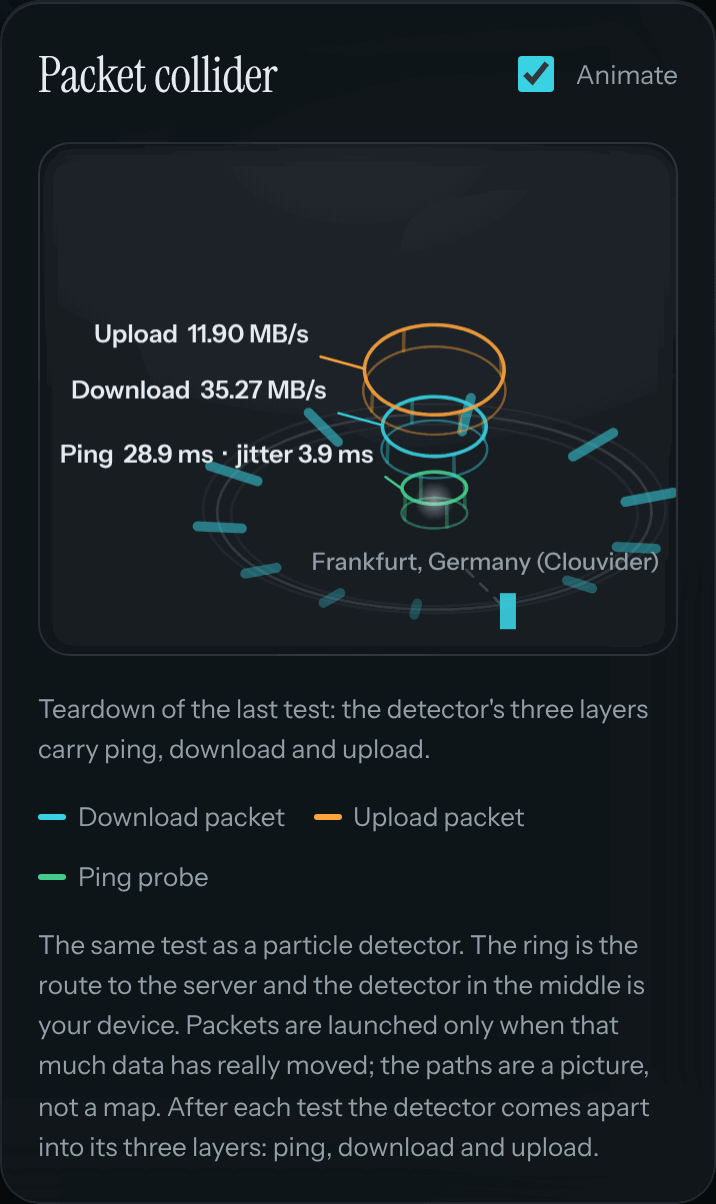
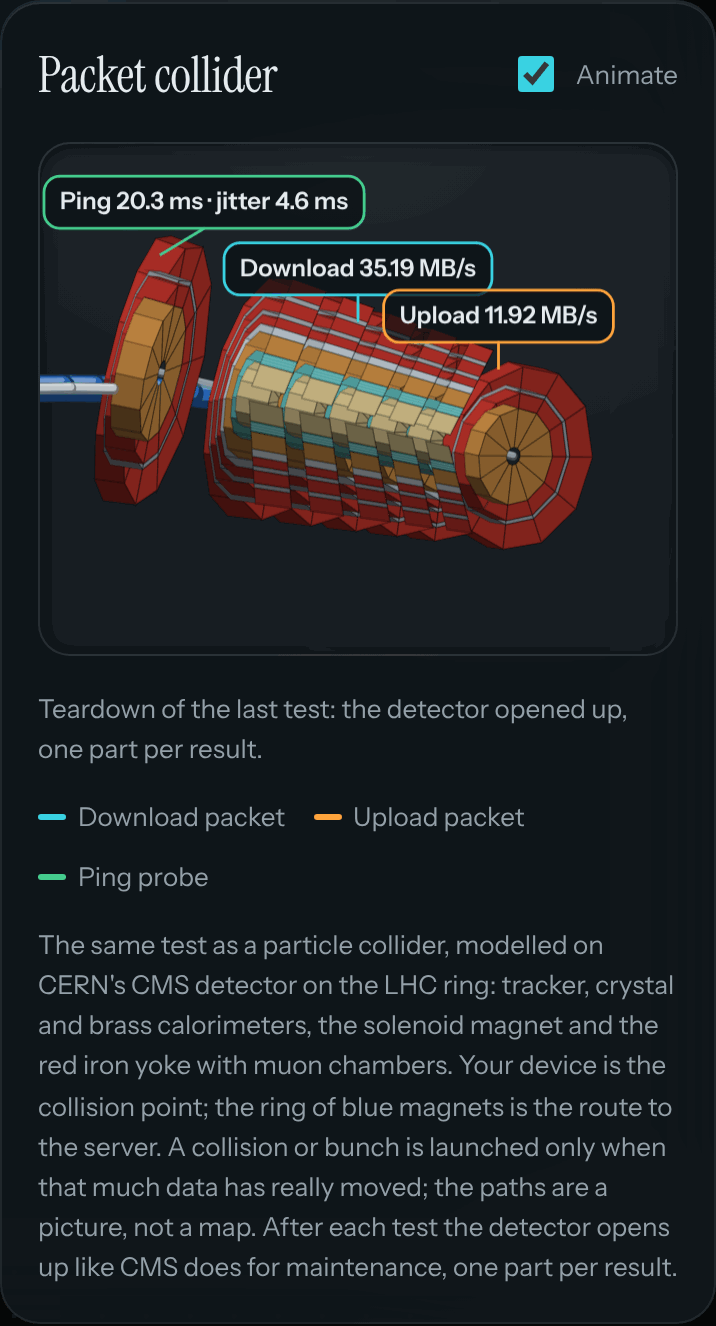
Collider rebuilt on the real CMS/LHC structure
- 12-sided barrel (5 wheels) + endcaps: silicon tracker, crystal ECAL,
  brass HCAL, superconducting solenoid, red iron yoke with muon chambers;
  camera-facing wedge cut away like an event display
- Blue dipole ring with the beam pipe following it
- Download: bunches from both sides collide per chunk received; tracks
  curl in the field and light the calorimeters where they stop
- Teardown opens the detector like CMS maintenance: endcaps slide out,
  wheels part; ping/download/upload labelled on the parts
- Static model drawn once and cached; only particles move (30 fps cap)
- README, DESIGN.md and screenshots updated

Claude-Session: https://claude.ai/code/session_01WewRtG4UNMSrnVFMQRkw9g

diff --git a/index.html b/index.html
@@ -417,7 +417,7 @@ footer{font:13px var(--body);color:var(--muted);text-align:center;padding-top:8p
     <div class="mapwrap colwrap"><canvas id="collider" role="img" aria-label="Packet collider"></canvas></div>
     <p class="note" id="colKey"></p>
     <div class="legend"><span><i style="background:var(--down)"></i>Download packet</span><span><i style="background:var(--up)"></i>Upload packet</span><span><i style="background:var(--good)"></i>Ping probe</span></div>
-    <p class="note">The same test as a particle detector. The ring is the route to the server and the detector in the middle is your device. Packets are launched only when that much data has really moved; the paths are a picture, not a map. After each test the detector comes apart into its three layers: ping, download and upload.</p>
+    <p class="note">The same test as a particle collider, modelled on CERN's CMS detector on the LHC ring: tracker, crystal and brass calorimeters, the solenoid magnet and the red iron yoke with muon chambers. Your device is the collision point; the ring of blue magnets is the route to the server. A collision or bunch is launched only when that much data has really moved; the paths are a picture, not a map. After each test the detector opens up like CMS does for maintenance, one part per result.</p>
   </section>
 
   <section class="glass pad" id="livePanel" aria-label="Live network map">
@@ -2026,127 +2026,178 @@ $("cmpType").value=connLabel()==="Mobile data"?"mobile":"fixed"; syncNet();
 if(!byId(selected)&&selected!=="auto") selected="auto";
 initCompare(); fillWhich(); renderServers(); syncServerName();
 { const h=store.get("history",[]); if(h[0]){ last=h[0]; showResult(last); $("copyRes").disabled=false } }
-/* =================== Packet collider: a 3D view of the test, driven by the real byte counters ===================
-   A beam ring (the route to the server) feeds a detector at the centre (your device).
-   Download: cyan packets enter at the server port, ride the ring once, dive into the detector and shower.
-   Upload: amber packets leave the detector, ride the ring once and exit at the port.
-   Ping: green probes go detector → port → detector over their measured round trip (slowed so they're visible).
-   A packet is launched only when that much data has really arrived or left; ring speed follows the live rate.
-   After the test the detector comes apart into three labelled layers (ping, download, upload): the teardown. */
+/* =================== Packet collider: a CMS-style detector on an LHC-style ring, driven by the real byte counters ===================
+   Modelled on the real thing: a 12-sided barrel detector around the beam pipe — silicon tracker, crystal electromagnetic
+   calorimeter, brass hadron calorimeter, superconducting solenoid and a red iron return yoke with muon chambers — sitting on
+   a ring of blue dipole magnets.
+   Download: two cyan bunches race in along the beam pipe from both sides and collide in the centre; the collision showers
+   tracks that curl in the magnetic field and light up the calorimeters. One collision is launched only when that much data
+   has really arrived. Upload: amber bunches leave the centre in both directions for each chunk really sent.
+   Ping: green probes run out along the pipe and back over each measured round trip (slowed 20×).
+   Teardown: when the test ends the detector opens like CMS does for maintenance — endcaps slide out, barrel wheels part —
+   and each part carries a result (ping, download, upload). */
 const col=(()=>{
-  const cv=$("collider"), cx=cv.getContext("2d"), SLOWC=20, MAXP=180, MAXT=260;
+  const cv=$("collider"); let cx=cv.getContext("2d"); const  SLOWC=20, MAXP=120, MAXT=320, RING=4.2;
   const reduce=matchMedia("(prefers-reduced-motion: reduce)");
-  let W=0,H=0,dpr=1, yaw=-0.55, parts=[], tracks=[], flashes=[], seen={dir:"",b:0,acc:0,t:0}, per=0, raf=0, last=0, vis=false;
+  let W=0,H=0,dpr=1, yaw=0.98, sway=0, stat=document.createElement("canvas"), statKey="", parts=[], tracks=[], hits=[], flashes=[], seen={dir:"",b:0,acc:0}, per=0, raf=0, last=0, lastDraw=0, vis=false;
   let explode=0, explodeT0=0, result=null, frameCost=0;
   const tok=n=>css(n), dark=()=>getComputedStyle(document.documentElement).colorScheme.includes("dark");
-  let lastDraw=0;
-  function size(){ dpr=Math.min(2,devicePixelRatio||1); const r=cv.getBoundingClientRect(); W=Math.max(1,Math.round(r.width*dpr)); H=Math.max(1,Math.round(r.height*dpr));
-    if(cv.width!==W||cv.height!==H){ cv.width=W; cv.height=H } }
-  // camera: yaw around Y, fixed pitch, perspective
-  const PITCH=0.5, DIST=3.4;
-  function P(x,y,z){ const cy=Math.cos(yaw), sy=Math.sin(yaw), X=x*cy-z*sy, Z=x*sy+z*cy;
-    const cp=Math.cos(PITCH), sp=Math.sin(PITCH), Y2=y*cp-Z*sp, Z2=y*sp+Z*cp;
-    const e=ease(explode), nar=W/dpr<640, s=Math.min(W,H*1.6)*(0.42-(nar?0.1:0.07)*e)/(1+Z2/DIST); return [W/2+e*W*(nar?0.12:0.06)+X*s, H*(0.56+0.14*e)-Y2*s, Z2, s] }
-  const ringPt=(t,r=1,y=0)=>[Math.cos(t)*r,y,Math.sin(t)*r]; // t: angle; port at t=0
-  const lerp=(a,b,k)=>a+(b-a)*k, ease=k=>1-Math.pow(1-k,3);
-  // layer offsets for the exploded teardown
-  const lift=()=>{ const e=ease(explode); return {ring:-0.2*e, ping:0, down:0.36*e, up:0.72*e} };
-  const LAYERS=[["ping",0.16,"--good"],["down",0.27,"--down"],["up",0.38,"--up"]];
-  function ellipse(r,y,col,a,w,front){ cx.strokeStyle=col; cx.lineWidth=w*dpr; cx.beginPath();
-    for(let i=0;i<=72;i++){ const t=i/72*Math.PI*2, p=P(Math.cos(t)*r,y,Math.sin(t)*r); i?cx.lineTo(p[0],p[1]):cx.moveTo(p[0],p[1]) }
-    cx.globalAlpha=a; cx.stroke(); cx.globalAlpha=1 }
-  function glowDot(x,y,r,c,a=1){ const g=cx.createRadialGradient(x,y,0,x,y,r); g.addColorStop(0,c); g.addColorStop(1,c+"00"); cx.globalAlpha=a; cx.fillStyle=g; cx.beginPath(); cx.arc(x,y,r,0,Math.PI*2); cx.fill(); cx.globalAlpha=1 }
-  function drawScene(){
-    const L=lift(), line=tok("--line2"), muted=tok("--muted");
-    // beam ring: three concentric pipes
-    for(const [r,a] of [[0.94,.35],[1,.75],[1.06,.35]]) ellipse(r,L.ring,line,a,1.4);
-    // dipole magnets every 30°: short blocks across the beam pipe, brighter at the front
-    for(let i=1;i<12;i++){ const t=i/12*Math.PI*2, a=P(Math.cos(t)*0.9,L.ring,Math.sin(t)*0.9), b=P(Math.cos(t)*1.1,L.ring,Math.sin(t)*1.1);
-      cx.strokeStyle=tok("--accent"); cx.globalAlpha=Math.max(.15,Math.min(.55,.45-a[2]*.3)); cx.lineWidth=5*dpr; cx.beginPath(); cx.moveTo(a[0],a[1]); cx.lineTo(b[0],b[1]); cx.stroke(); cx.globalAlpha=1 }
-    // beamline from the port to the detector
-    const p0=P(1,L.ring,0), p1=P(0.42,L.ring,0); cx.strokeStyle=line; cx.lineWidth=1.4*dpr; cx.setLineDash([5*dpr,5*dpr]); cx.beginPath(); cx.moveTo(p0[0],p0[1]); cx.lineTo(p1[0],p1[1]); cx.stroke(); cx.setLineDash([]);
-    // server port
-    const pp=P(1.12,L.ring,0); cx.fillStyle=tok("--accent"); cx.globalAlpha=.9; cx.fillRect(pp[0]-4*dpr,pp[1]-9*dpr,8*dpr,18*dpr); cx.globalAlpha=1;
-    cx.fillStyle=muted; cx.font=`500 ${12*dpr}px ${tok("--body")}`; cx.textBaseline="middle";
-    const nm=tel.lastSrv?tel.lastSrv.name:"Server", nw=cx.measureText(nm).width, fits=pp[0]+12*dpr+nw<W-8*dpr;
-    cx.textAlign=fits?"left":"right"; let ly=fits?pp[1]:pp[1]+22*dpr; if(ly>H-12*dpr) ly=pp[1]-24*dpr; cx.fillText(nm,fits?pp[0]+12*dpr:Math.min(W-8*dpr,pp[0]+nw/2),ly);
-    // detector barrel: three layers (ping, download, upload), each a short cylinder
-    for(const [k,r,c] of LAYERS){ const y=L[k], h=0.07, col=tok(c);
-      ellipse(r,y-h,col,.45,1.2); ellipse(r,y+h,col,.9,1.8);
-      for(const t of [0,Math.PI/2,Math.PI,Math.PI*1.5]){ const a=P(Math.cos(t)*r,y-h,Math.sin(t)*r), b=P(Math.cos(t)*r,y+h,Math.sin(t)*r); cx.strokeStyle=col; cx.globalAlpha=.35; cx.beginPath(); cx.moveTo(a[0],a[1]); cx.lineTo(b[0],b[1]); cx.stroke(); cx.globalAlpha=1 } }
-    const c0=P(0,lift().ping,0); glowDot(c0[0],c0[1],10*dpr,tok("--ink"),.5);
+  const ease=k=>1-Math.pow(1-k,3), lerp=(a,b,k)=>a+(b-a)*k;
+  // real-detector materials (physical colours, the same in both themes)
+  const MAT={tracker:[196,178,128], ecal:[86,170,170], hcal:[184,128,62], sol:[178,188,196], yoke:[176,48,40], muon:[150,156,160], pipe:[200,206,210], dipole:[38,98,178]};
+  const BARREL=[["tracker",0.07,0.27],["ecal",0.27,0.37],["hcal",0.37,0.53],["sol",0.53,0.6],["yoke",0.6,0.68],["muon",0.68,0.72],["yoke",0.72,0.83],["muon",0.83,0.87],["yoke",0.87,1.0]];
+  const WHEELS=[-0.75,-0.45,-0.15,0.15,0.45,0.75], ENDCAP=[0.75,0.98];
+  function size(){ dpr=Math.min(2,devicePixelRatio||1); const r=cv.getBoundingClientRect(); W=Math.max(1,Math.round(r.width*dpr)); H=Math.max(1,Math.round(r.height*dpr)); if(cv.width!==W||cv.height!==H){ cv.width=W; cv.height=H } }
+  // camera
+  const PITCH=0.36, DIST=5.6;
+  function P(x,y,z){ const yy=yaw+sway, cy=Math.cos(yy), sy=Math.sin(yy), X=x*cy+z*sy, Z=-x*sy+z*cy;
+    const cp=Math.cos(PITCH), sp=Math.sin(PITCH), Y2=y*cp-Z*sp, Z2=y*sp+Z*cp;  // Z2: + is away from the camera
+    const e=ease(explode), nar=W/dpr<640, s=Math.min(W,H*1.7)*(nar?0.21:0.19)*(1-0.18*e)/(1+Z2/DIST);
+    return [W*0.5+X*s, H*(0.5+0.04*e)-Y2*s, Z2] }
+  const camDir=()=>{ const yy=yaw+sway; return [Math.sin(yy)*Math.cos(PITCH)*-1, Math.sin(PITCH), Math.cos(yy)*Math.cos(PITCH)] };
+  // teardown offsets along the beam axis
+  function zShift(z){ const e=ease(explode); if(!e) return 0; const s=Math.sign(z)||0;
+    if(Math.abs(z)>=ENDCAP[0]-1e-6) return s*1.05*e;        // endcaps slide out
+    return z*0.55*e }                                        // barrel wheels part
+  const ring=t=>[-RING+RING*Math.cos(t),0,RING*Math.sin(t)]; // tangent to the beam axis at the detector (t=0)
+  function shade(rgb,n,a=1){ const L=[-0.45,0.75,0.5], d=Math.max(0,(n[0]*L[0]+n[1]*L[1]+n[2]*L[2])/Math.hypot(...L)); const k=0.38+0.72*d;
+    return `rgba(${Math.min(255,rgb[0]*k)|0},${Math.min(255,rgb[1]*k)|0},${Math.min(255,rgb[2]*k)|0},${a})` }
+  // ---- geometry: quads with a world normal, painted far to near
+  function cutSectors(){ // the four sectors nearest the camera are cut away, so the collision point is visible
+    const N=12, rot=Math.PI/12, d=[]; for(let i=0;i<N;i++){ const m=rot+(i+.5)/N*Math.PI*2; d.push([P(Math.cos(m),Math.sin(m),0)[2],i]) }
+    d.sort((a,b)=>a[0]-b[0]); return new Set(d.slice(0,4).map(x=>x[1])) }
+  function prism(quads,mat,r0,r1,z0,z1,caps=[true,true],cut=null){
+    const N=12, rot=Math.PI/12;
+    const p=(r,t,z)=>[Math.cos(t)*r,Math.sin(t)*r,z];
+    if(cut) for(let i=0;i<N;i++){ const a=rot+i/N*Math.PI*2, b=rot+(i+1)/N*Math.PI*2;
+      if(cut.has(i)&&!cut.has((i+N-1)%N)) quads.push({pts:[p(r0,a,z0),p(r1,a,z0),p(r1,a,z1),p(r0,a,z1)],n:[Math.sin(a),-Math.cos(a),0],mat,cap:true,two:true});
+      if(cut.has(i)&&!cut.has((i+1)%N)) quads.push({pts:[p(r0,b,z1),p(r1,b,z1),p(r1,b,z0),p(r0,b,z0)],n:[-Math.sin(b),Math.cos(b),0],mat,cap:true,two:true}) }
+    for(let i=0;i<N;i++){ if(cut&&cut.has(i)) continue; const a=rot+i/N*Math.PI*2, b=rot+(i+1)/N*Math.PI*2, m=(a+b)/2;
+      quads.push({pts:[p(r1,a,z0),p(r1,b,z0),p(r1,b,z1),p(r1,a,z1)],n:[Math.cos(m),Math.sin(m),0],mat});              // outer face
+      if(caps[1]) quads.push({pts:[p(r0,a,z1),p(r1,a,z1),p(r1,b,z1),p(r0,b,z1)],n:[0,0,1],mat,cap:true});           // front cap
+      if(caps[0]) quads.push({pts:[p(r0,b,z0),p(r1,b,z0),p(r1,a,z0),p(r0,a,z0)],n:[0,0,-1],mat,cap:true});          // back cap
+    }
+  }
+  function detector(){
+    const q=[], cut=cutSectors();
+    for(let w=0;w<WHEELS.length-1;w++){ const z0=WHEELS[w], z1=WHEELS[w+1], dz=zShift((z0+z1)/2)+0;
+      for(const [m,r0,r1] of BARREL) prism(q,m,r0,r1,z0+dz,z1+dz,[true,true],cut) }
+    for(const s of [-1,1]){ const z0=s>0?ENDCAP[0]:-ENDCAP[1], z1=s>0?ENDCAP[1]:-ENDCAP[0], dz=zShift(s*0.9);
+      for(const [m,r0,r1] of [["hcal",0.1,0.53],["yoke",0.53,0.7],["muon",0.7,0.74],["yoke",0.74,1.0]]) prism(q,m,r0,r1,z0+dz,z1+dz) }
+    return q;
+  }
+  function paint(q){
+    const cam=camDir(), list=[];
+    for(const f of q){ const pr=f.pts.map(p=>P(...p)); let area=0; for(let i=0;i<4;i++){ const a=pr[i], b=pr[(i+1)%4]; area+=a[0]*b[1]-b[0]*a[1] }
+      if(area>=0&&!f.two) continue;                           // back face: hidden (cut walls are drawn from both sides)
+      list.push({pr,z:(pr[0][2]+pr[1][2]+pr[2][2]+pr[3][2])/4,f}) }
+    list.sort((a,b)=>b.z-a.z);
+    for(const {pr,f} of list){ const rgb=MAT[f.mat]; cx.fillStyle=shade(rgb,f.n); cx.beginPath(); pr.forEach((p,i)=>i?cx.lineTo(p[0],p[1]):cx.moveTo(p[0],p[1])); cx.closePath(); cx.fill();
+      cx.strokeStyle=`rgba(0,0,0,${f.cap?.28:.18})`; cx.lineWidth=0.7*dpr; cx.stroke();
+      if(f.mat==="ecal"&&f.cap){ cx.strokeStyle="rgba(255,255,255,.18)"; cx.lineWidth=0.5*dpr; for(let k=1;k<4;k++){ const a=[lerp(pr[0][0],pr[1][0],k/4),lerp(pr[0][1],pr[1][1],k/4)], b=[lerp(pr[3][0],pr[2][0],k/4),lerp(pr[3][1],pr[2][1],k/4)]; cx.beginPath(); cx.moveTo(...a); cx.lineTo(...b); cx.stroke() } } }
+  }
+  function cylinder(a,b,r,rgb,alpha=1){ // a short tube between two points (dipole magnets, beam pipe), drawn as a thick line with a highlight
+    const A=P(...a), B=P(...b), s=r*Math.min(W,H*1.7)*0.27/(1+(A[2]+B[2])/2/DIST);
+    cx.lineCap="round"; cx.strokeStyle=`rgba(${rgb[0]*.55|0},${rgb[1]*.55|0},${rgb[2]*.55|0},${alpha})`; cx.lineWidth=s*2; cx.beginPath(); cx.moveTo(A[0],A[1]); cx.lineTo(B[0],B[1]); cx.stroke();
+    cx.strokeStyle=`rgba(${rgb[0]},${rgb[1]},${rgb[2]},${alpha})`; cx.lineWidth=s*1.3; cx.beginPath(); cx.moveTo(A[0],A[1]-s*.25); cx.lineTo(B[0],B[1]-s*.25); cx.stroke();
+    cx.strokeStyle=`rgba(255,255,255,${.35*alpha})`; cx.lineWidth=s*.35; cx.beginPath(); cx.moveTo(A[0],A[1]-s*.6); cx.lineTo(B[0],B[1]-s*.6); cx.stroke() }
+  function drawRing(){ // the accelerator: blue dipole magnets along a ring that passes through the detector
+    const segs=[]; for(let i=-14;i<=14;i++){ if(Math.abs(i)<1) continue; const t0=i*0.06, t1=t0+0.045*Math.sign(i); segs.push([t0,t1]) }
+    segs.sort((a,b)=>P(...ring(b[0]))[2]-P(...ring(a[0]))[2]);
+    for(const [t0,t1] of segs){ const d=P(...ring(t0))[2]; if(d<-1.2&&Math.abs(t0)<0.1) continue;
+      const fade=Math.max(.25,Math.min(1,1-(d-1)/6)); cylinder(ring(t0),ring(t1),0.07,MAT.dipole,fade) }
+  }
+  function beamPipe(near){ // the beam pipe follows the ring; far end behind the detector, near end in front
+    const e=ease(explode), z0=0.98+1.05*e, t0=Math.asin(Math.min(1,z0/RING)), a=P(...ring(t0)), b=P(...ring(-t0)), farPos=a[2]>b[2];
+    const seg=sgn=>{ for(let i=0;i<10;i++){ const u0=t0+i*0.08, u1=u0+0.085; cylinder(ring(sgn*u0),ring(sgn*u1),0.03,MAT.pipe,.9) } };
+    if(near) seg(farPos?-1:1); else seg(farPos?1:-1);
+    if(!near&&e>0.05){ cx.globalAlpha=e; cylinder([0,0,-z0],[0,0,z0],0.025,MAT.pipe,.55); cx.globalAlpha=1 } }
+  function drawStatic(){
+    const key=[W,H,dark(),explode.toFixed(3)].join(); if(key===statKey) return; statKey=key;
+    stat.width=W; stat.height=H; const real=cx; cx=stat.getContext("2d"); cx.clearRect(0,0,W,H);
+    drawRing(); beamPipe(false); paint(detector()); beamPipe(true); cx=real }
+  // ---- packets and collisions
+  function rateSpeed(){ const r=tel.cur[tel.phase]||0; return 0.5+1.2*Math.min(1,Math.log10(1+bpsToMbps(r))/3) }
+  function where(p,now){ // returns a world point, or null
+    const tm=now-p.t0; if(tm<0) return null;
+    if(p.dir==="ping"){ const k=tm/p.dur; if(k>=1) return null; const u=k<.5?k*2:(1-k)*2; return ring(p.side*0.9*u) }
+    const d=p.dur; if(tm>=d) return null; const k=tm/d;
+    return p.dir==="down"? ring(p.side*0.9*(1-k)) : ring(p.side*0.9*k) }
+  function spawn(dir,n){ const now=performance.now();
+    for(let i=0;i<n&&parts.length<MAXP;i++){ const dur=1100/rateSpeed();
+      if(dir==="down"){ parts.push({dir,side:1,t0:now+i*140,dur,pair:true}); parts.push({dir,side:-1,t0:now+i*140,dur}) }
+      else parts.push({dir,side:(i%2?1:-1),t0:now+i*140,dur}) } }
+  function ping(ms){ if(!fin(ms)||parts.length>=MAXP) return; parts.push({dir:"ping",side:Math.random()<.5?1:-1,t0:performance.now(),dur:Math.min(3500,Math.max(700,ms*SLOWC)),ms}) }
+  function feed(){
+    const d=tel.phase; if(!tel.on||(d!=="down"&&d!=="up")){ seen.dir=""; return }
+    const b=tel.bytes[d]||0; if(seen.dir!==d){ seen={dir:d,b,acc:0}; return }
+    seen.acc+=Math.max(0,b-seen.b); seen.b=b; const rate=tel.cur[d]||0;
+    per=[64e3,256e3,1e6,4e6,16e6,64e6,256e6].find(v=>rate/v<=8)||256e6;
+    const n=Math.min(4,Math.floor(seen.acc/per)); seen.acc-=n*per; if(n) spawn(d,n) }
+  function collide(now){ // tracks curl in the solenoid field (perpendicular to the beam), stop in the calorimeters
+    const c=tok("--down"); for(let i=0;i<14&&tracks.length<MAXT;i++){ const a=Math.random()*Math.PI*2, charge=Math.random()<.5?-1:1;
+      const pt=0.6+Math.random()*2.4, reach=Math.random()<.7?0.36:0.52;  // electrons stop in ECAL, hadrons in HCAL
+      tracks.push({a,k:charge/pt*1.6,reach,c:Math.random()<.25?"#ffffff":c,t0:now,life:650+Math.random()*450,z:(Math.random()-.5)*0.05}) }
+    flashes.push({p:[0,0,0],t0:now,c:"#ffffff",r:10}) }
+  function drawTracks(now){
+    tracks=tracks.filter(t=>{ const k=(now-t.t0)/t.life; if(k>=1) return false; const grow=Math.min(1,k*2.2), steps=14;
+      cx.strokeStyle=t.c; cx.globalAlpha=(1-k)*.95; cx.lineWidth=1.4*dpr; cx.beginPath();
+      let x=0,y=0,a=t.a, first=true; const ds=t.reach*grow/steps;
+      for(let i=0;i<=steps;i++){ const q=P(x,y,t.z); first?cx.moveTo(q[0],q[1]):cx.lineTo(q[0],q[1]); first=false; a+=t.k*ds*3; x+=Math.cos(a)*ds; y+=Math.sin(a)*ds }
+      cx.stroke(); cx.globalAlpha=1;
+      if(grow>=1&&!t.hit){ t.hit=true; hits.push({p:[x,y,t.z],t0:now,c:t.reach<0.4?"#7fe9f2":"#ffb560"}) }
+      return true });
+    hits=hits.filter(h=>{ const k=(now-h.t0)/500; if(k>=1) return false; const q=P(...h.p); glow(q[0],q[1],(5+k*6)*dpr,h.c,(1-k)*(dark()?.9:.6)); return true });
+  }
+  function glow(x,y,r,c,a){ const g=cx.createRadialGradient(x,y,0,x,y,r); const hex=c.length===7?c:"#ffffff"; g.addColorStop(0,hex); g.addColorStop(1,hex+"00"); cx.globalAlpha=a; cx.fillStyle=g; cx.beginPath(); cx.arc(x,y,r,0,Math.PI*2); cx.fill(); cx.globalAlpha=1 }
+  function drawParts(now){
+    parts=parts.filter(p=>{
+      const done=(now-p.t0)>=p.dur;
+      if(done){ if(p.dir==="ping"){ flashes.push({p:[0,0,0],t0:now,c:tok("--good"),txt:p.ms.toFixed(0)+" ms",r:14}) }
+        else if(p.dir==="down"&&p.pair) collide(now); else if(p.dir==="up") flashes.push({p:ring(p.side*0.9),t0:now,c:tok("--up"),r:12}); return false }
+      const w=where(p,now); if(!w) return true;
+      const c=tok(p.dir==="ping"?"--good":p.dir==="down"?"--down":"--up"), q=P(...w);
+      let prev=q; for(let i=1;i<=8;i++){ const tw=where(p,now-i*18); if(!tw) break; const r=P(...tw);
+        cx.strokeStyle=c; cx.globalAlpha=(1-i/9)*.85; cx.lineWidth=(3.4-i*.35)*dpr; cx.lineCap="round"; cx.beginPath(); cx.moveTo(prev[0],prev[1]); cx.lineTo(r[0],r[1]); cx.stroke(); prev=r }
+      cx.globalAlpha=1; glow(q[0],q[1],(dark()?13:9)*dpr,c,dark()?.95:.6); cx.fillStyle="#fff"; cx.beginPath(); cx.arc(q[0],q[1],2.2*dpr,0,Math.PI*2); cx.fill();
+      return true });
+    flashes=flashes.filter(f=>{ const k=(now-f.t0)/650; if(k>=1) return false; const q=P(...f.p); glow(q[0],q[1],(f.r+k*12)*dpr,f.c,(1-k)*(dark()?1:.6));
+      if(f.txt){ cx.fillStyle=f.c; cx.globalAlpha=1-k; cx.font=`600 ${12*dpr}px ${tok("--mono")}`; cx.textAlign="center"; cx.fillText(f.txt,q[0],q[1]-(22+k*16)*dpr); cx.globalAlpha=1 } return true });
   }
   function labels(){
-    if(explode<=0.02||!result) return; const L=lift(), e=ease(explode);
-    const rows=[["up",0.38,`Upload  ${fmt(result.up)} ${unitLabel()}`,"--up"],["down",0.27,`Download  ${fmt(result.down)} ${unitLabel()}`,"--down"],["ping",0.16,`Ping  ${fin(result.ping)?result.ping.toFixed(1):"—"} ms${fin(result.jitter)?`  ·  jitter ${result.jitter.toFixed(1)} ms`:""}`,"--good"]];
-    cx.font=`600 ${(W/dpr<640?12.5:14)*dpr}px ${tok("--body")}`; cx.textBaseline="middle"; cx.textAlign="left";
-    for(const [k,r,txt,c] of rows){
-      // anchor on the left-most point of the layer's top rim, label sits to its left with a short leader
-      let a=null; for(let i=0;i<48;i++){ const t=i/48*Math.PI*2, q=P(Math.cos(t)*r,L[k]+0.07,Math.sin(t)*r); if(!a||q[0]<a[0]) a=q }
-      const tw=cx.measureText(txt).width, tx=Math.max(10*dpr, a[0]-tw-28*dpr), ty=a[1]-6*dpr;
-      cx.globalAlpha=e; cx.strokeStyle=tok(c); cx.lineWidth=1.2*dpr; cx.beginPath(); cx.moveTo(a[0],a[1]); cx.lineTo(Math.min(a[0]-6*dpr,tx+tw+6*dpr),ty); cx.stroke();
-      cx.fillStyle=tok("--ink"); cx.fillText(txt,tx,ty-11*dpr); cx.globalAlpha=1 }
+    if(explode<=0.02||!result) return; const e=ease(explode);
+    const rows=[[-0.87,`Ping ${fin(result.ping)?result.ping.toFixed(1):"—"} ms${fin(result.jitter)?` · jitter ${result.jitter.toFixed(1)} ms`:""}`,"--good"],
+                [0,`Download ${fmt(result.down)} ${unitLabel()}`,"--down"],[0.87,`Upload ${fin(result.up)?fmt(result.up):"—"} ${unitLabel()}`,"--up"]];
+    cx.font=`600 ${(W/dpr<640?12:14)*dpr}px ${tok("--body")}`; cx.textBaseline="middle"; cx.textAlign="center";
+    for(const [z,txt,c] of rows){ const top=P(0,1.02,z+zShift(z)), tw=cx.measureText(txt).width;
+      const x=Math.min(W-tw/2-10*dpr,Math.max(tw/2+10*dpr,top[0])), y=Math.max(18*dpr,top[1]-26*dpr);
+      cx.globalAlpha=e; cx.fillStyle=dark()?"rgba(10,14,16,.72)":"rgba(255,255,255,.82)"; cx.beginPath(); cx.roundRect?cx.roundRect(x-tw/2-8*dpr,y-13*dpr,tw+16*dpr,26*dpr,8*dpr):cx.rect(x-tw/2-8*dpr,y-13*dpr,tw+16*dpr,26*dpr); cx.fill();
+      cx.strokeStyle=tok(c); cx.lineWidth=1.4*dpr; cx.stroke(); cx.beginPath(); cx.moveTo(x,y+13*dpr); cx.lineTo(top[0],top[1]); cx.stroke();
+      cx.fillStyle=tok("--ink"); cx.fillText(txt,x,y); cx.globalAlpha=1 }
   }
-  // ---- packets
-  function rateSpeed(){ const r=tel.cur[tel.phase]||0; return 0.3+0.9*Math.min(1,Math.log10(1+bpsToMbps(r))/3) } // laps per second: 0.3 (slow line) to 1.2 (gigabit)
-  function spawn(dir,n){ for(let i=0;i<n&&parts.length<MAXP;i++) parts.push({dir,t0:performance.now()+i*110,lap:1/rateSpeed(),j:(Math.random()-.5)*0.05}) }
-  function ping(ms){ if(!fin(ms)||parts.length>=MAXP) return; parts.push({dir:"ping",t0:performance.now(),dur:Math.min(3500,Math.max(700,ms*SLOWC)),ms}) }
-  function feed(now){
-    const d=tel.phase; if(!tel.on||(d!=="down"&&d!=="up")){ seen.dir=""; return }
-    const b=tel.bytes[d]||0; if(seen.dir!==d){ seen={dir:d,b,acc:0,t:now}; return }
-    seen.acc+=Math.max(0,b-seen.b); seen.b=b; const rate=tel.cur[d]||0;
-    per=[64e3,256e3,1e6,4e6,16e6,64e6,256e6].find(v=>rate/v<=24)||256e6;
-    const n=Math.min(8,Math.floor(seen.acc/per)); seen.acc-=n*per; if(n) spawn(d,n);
-  }
-  function shower(x,y,c,n){ for(let i=0;i<n&&tracks.length<MAXT;i++){ const a=Math.random()*Math.PI*2, v=(50+Math.random()*110)*dpr, curl=(Math.random()<.5?-1:1)*(1.5+Math.random()*3);
-      tracks.push({x,y,a,v,curl,c,t0:performance.now(),life:500+Math.random()*500}) } }
-  function where(p,now,L){
-    if(p.dir==="ping"){ const k=(now-p.t0)/p.dur; if(k<0||k>=1) return null; const u=k<.5?k*2:(1-k)*2; return [lerp(0.1,1,u),L.ping+0.02,0] }
-    const lapDur=p.lap*1000, inDur=420, tm=now-p.t0; if(tm<0||tm>=lapDur+inDur) return null;
-    if(p.dir==="down"){ if(tm<lapDur){ const a=(tm/lapDur)*Math.PI*2; return ringPt(a,1+p.j,L.ring) } const u=(tm-lapDur)/inDur; return [lerp(1,0.05,u),lerp(L.ring,L.down,u),0] }
-    if(tm<inDur){ const u=tm/inDur; return [lerp(0.05,1,u),lerp(L.up,L.ring,u),0] } const a=((tm-inDur)/lapDur)*Math.PI*2; return ringPt(-a,1+p.j,L.ring) }
-  function drawParts(now){
-    const L=lift();
-    parts=parts.filter(p=>{
-      const done=p.dir==="ping"?(now-p.t0)>=p.dur:(now-p.t0)>=p.lap*1000+420;
-      if(done){ if(p.dir==="ping"){ const q=P(0,L.ping,0); flashes.push({x:q[0],y:q[1],t0:now,txt:p.ms.toFixed(0)+" ms",c:tok("--good")}) }
-        else if(p.dir==="down"){ const q=P(0,L.down,0); shower(q[0],q[1],tok("--down"),9) } else { const q=P(1.3,L.ring,0); flashes.push({x:q[0],y:q[1],t0:now,c:tok("--up")}) } return false }
-      const pt=where(p,now,L); if(!pt) return true;
-      const c=tok(p.dir==="ping"?"--good":p.dir==="down"?"--down":"--up"), q=P(...pt), depth=Math.max(.35,Math.min(1,1-q[2]*.35));
-      // photon streak: the packet's own path over the last 140 ms, fading out behind it
-      let prev=q; for(let i=1;i<=7;i++){ const tp=where(p,now-i*16,L); if(!tp) break; const r=P(...tp);
-        cx.strokeStyle=c; cx.globalAlpha=depth*(1-i/8)*.8; cx.lineWidth=(3.2-i*.35)*dpr; cx.lineCap="round"; cx.beginPath(); cx.moveTo(prev[0],prev[1]); cx.lineTo(r[0],r[1]); cx.stroke(); prev=r }
-      cx.globalAlpha=1; glowDot(q[0],q[1],(dark()?12:8)*dpr*depth,c,(dark()?.9:.5)*depth); cx.fillStyle="#fff"; cx.globalAlpha=depth; cx.beginPath(); cx.arc(q[0],q[1],2.2*dpr,0,Math.PI*2); cx.fill(); cx.globalAlpha=1;
-      return true });
-    tracks=tracks.filter(t=>{ const k=(now-t.t0)/t.life; if(k>=1) return false; cx.strokeStyle=t.c; cx.globalAlpha=(1-k)*.9; cx.lineWidth=1.3*dpr; cx.beginPath();
-      let x=t.x,y=t.y,a=t.a; cx.moveTo(x,y); const steps=10, len=t.v*k;
-      for(let i=0;i<steps;i++){ a+=t.curl*0.06; x+=Math.cos(a)*len/steps; y+=Math.sin(a)*len/steps*0.6; cx.lineTo(x,y) } cx.stroke(); cx.globalAlpha=1; return true });
-    flashes=flashes.filter(f=>{ const k=(now-f.t0)/700; if(k>=1) return false; cx.strokeStyle=f.c; cx.globalAlpha=1-k; cx.lineWidth=1.5*dpr; cx.beginPath(); cx.arc(f.x,f.y,(6+k*22)*dpr,0,Math.PI*2); cx.stroke();
-      if(f.txt){ cx.fillStyle=f.c; cx.font=`600 ${12*dpr}px ${tok("--mono")}`; cx.textAlign="center"; cx.fillText(f.txt,f.x,f.y-(16+k*14)*dpr) } cx.globalAlpha=1; return true });
-  }
-  function hint(){ if(tel.on||result) return; cx.fillStyle=tok("--muted"); cx.font=`500 ${13*dpr}px ${tok("--body")}`; cx.textAlign="center"; cx.fillText("Run a test to fire real packets through the collider",W/2,H*0.94) }
+  function hint(){ if(tel.on||result) return; cx.fillStyle=tok("--muted"); cx.font=`500 ${13*dpr}px ${tok("--body")}`; cx.textAlign="center"; cx.fillText("Run a test to collide real packets in the detector",W/2,H*0.95) }
   function frame(now){
     raf=0; if(tel.on&&now-lastDraw<32){ raf=requestAnimationFrame(frame); return } lastDraw=now;
     const t0=performance.now(); size(); cx.clearRect(0,0,W,H);
     const animating=$("colAnim").checked&&!reduce.matches;
-    if(tel.on&&animating){ yaw+=(now-last||16)/1000*0.12; feed(now) } last=now;
-    if(explodeT0){ explode=Math.min(1,(now-explodeT0)/1400); if(explode>=1) explodeT0=0 }
-    drawScene(); if(animating) drawParts(now); labels(); hint();
+    if(tel.on&&animating) feed(); last=now;
+    if(explodeT0){ explode=Math.min(1,(now-explodeT0)/1600); if(explode>=1) explodeT0=0 }
+    drawStatic(); cx.drawImage(stat,0,0); if(animating){ drawParts(now); drawTracks(now) } labels(); hint();
     frameCost=frameCost*.9+(performance.now()-t0)*.1;
-    if(vis&&animating&&(tel.on||parts.length||tracks.length||flashes.length||explodeT0)) raf=requestAnimationFrame(frame);
-    $("colKey").textContent=tel.on&&per&&(tel.phase==="down"||tel.phase==="up")?`Each ${tel.phase==="down"?"cyan":"amber"} packet is ${per>=1e6?per/1e6+" MB":per/1e3+" KB"} of data actually ${tel.phase==="down"?"received":"sent"}. Packets ride faster as the speed rises.`
-      :tel.on&&tel.phase==="ping"?"Green probes go to the server port and back over each measured round trip, shown 20× slower."
-      :result?"Teardown of the last test: the detector's three layers carry ping, download and upload.":"";
+    if(vis&&animating&&(tel.on||parts.length||tracks.length||flashes.length||hits.length||explodeT0)) raf=requestAnimationFrame(frame);
+    $("colKey").textContent=tel.on&&per&&(tel.phase==="down"||tel.phase==="up")
+      ?(tel.phase==="down"?`Each collision is ${per>=1e6?per/1e6+" MB":per/1e3+" KB"} of data actually received. Bunches travel faster as the speed rises.`:`Each amber bunch is ${per>=1e6?per/1e6+" MB":per/1e3+" KB"} of data actually sent.`)
+      :tel.on&&tel.phase==="ping"?"Green probes run along the beam pipe and back over each measured round trip, shown 20× slower."
+      :result?"Teardown of the last test: the detector opened up, one part per result.":"";
   }
   function kick(){ if(!raf) raf=requestAnimationFrame(frame) }
-  function start(){ parts=[]; tracks=[]; flashes=[]; seen.dir=""; explode=0; explodeT0=0; result=null; kick() }
+  function start(){ parts=[]; tracks=[]; hits=[]; flashes=[]; seen.dir=""; explode=0; explodeT0=0; result=null; kick() }
   function end(res){ if(res&&fin(res.down)){ result=res; explodeT0=($("colAnim").checked&&!reduce.matches)?performance.now():0; if(!explodeT0) explode=1 } kick();
     $("collider").setAttribute("aria-label",res&&fin(res.down)?`Packet collider teardown: ping ${fin(res.ping)?res.ping.toFixed(1):"unknown"} ms, download ${fmt(res.down)} ${unitLabel()}, upload ${fin(res.up)?fmt(res.up):"not measured"} ${unitLabel()}`:"Packet collider") }
-  // show the last saved result as a teardown on load
   try{ const h=store.get("history",[]); if(h&&h[0]&&fin(h[0].down)){ result=h[0]; explode=1 } }catch{}
   if("IntersectionObserver" in window) new IntersectionObserver(e=>{ vis=e[0].isIntersecting; if(vis) kick() }).observe(cv); else vis=true;
   if("ResizeObserver" in window) new ResizeObserver(()=>kick()).observe(cv);
-  $("colAnim").checked=!reduce.matches; $("colAnim").onchange=()=>{ if(!$("colAnim").checked){ parts=[]; tracks=[]; flashes=[] } kick() };
+  $("colAnim").checked=!reduce.matches; $("colAnim").onchange=()=>{ if(!$("colAnim").checked){ parts=[]; tracks=[]; hits=[]; flashes=[] } kick() };
   matchMedia("(prefers-color-scheme: dark)").addEventListener("change",kick);
   return {start,end,ping,kick,get cost(){return frameCost}};
 })();

diff --git a/README.md b/README.md
@@ -40,7 +40,7 @@ Tests the internet speed of Wi-Fi, mobile data and Ethernet **without ads, track
 | **Speed test** | Download, upload, idle ping, jitter and **loaded ping** (latency while the line is busy). Live gauge and throughput chart. Stop at any time; **Retest** after a run. |
 | **Units** | Bytes or bits per second: KB/s, MB/s, GB/s, Kbps, Mbps, Gbps. Decimal (1000) or binary (1024, shown as MiB/s, Mibps). |
 | **Servers** | Automatic (lowest ping), Cloudflare (anycast), Measurement Lab (ndt7), 22 LibreSpeed volunteer servers worldwide, or your own server. "Measure ping to all" compares them. |
-| **Packet collider** | A 3D collider view of the test: real packets as photons around a beam ring, showers in the detector, and an exploded teardown of ping, download and upload at the end. |
+| **Packet collider** | A 3D CMS/LHC-style collider view of the test: bunches collide for every chunk really received, tracks curl through the calorimeters, and the detector opens up at the end with ping, download and upload on its parts. |
 | **Live map** | Route from you to the test server with animated data flow, live download/upload/ping tiles and a telemetry timeline. |
 | **Insights** | Responsiveness grade (A+ to F) from loaded ping, what the connection can handle (streaming, calls, gaming, backups), your place among 100+ countries. |
 | **Global comparison** | Your result against the world and national medians (Ookla Speedtest Global Index), for broadband or mobile. |
@@ -87,14 +87,14 @@ Tests the internet speed of Wi-Fi, mobile data and Ethernet **without ads, track
 |:--:|:--:|
 | <img src="docs/screenshots/25-collider-download.png" width="300"> | <img src="docs/screenshots/26-collider-teardown.png" width="300"> |
 
-The same test drawn as a particle collider. The ring is the route to the test server, the port on the ring is the server, and the detector in the middle is your device.
+The same test drawn as a particle collider, modelled on the real structure of CERN's CMS detector sitting on the LHC ring. It is drawn in 3D (perspective, shaded faces, painter's sort) with the browser's own 2D canvas — no WebGL, library or photographs.
 
-- **Ping:** green probes travel from the detector to the server port and back, one per measured ping, taking the measured round trip (slowed 20× so you can see it). The time flashes where each lands.
-- **Download:** a cyan packet enters at the server port only when that much data has really arrived (the note under the picture gives the size, e.g. 1 packet = 4 MB). It rides the ring once, dives into the detector and breaks into a shower of curved tracks.
-- **Upload:** an amber packet leaves the detector for each chunk really sent, rides the ring and exits at the port.
-- **Speed you can see:** packets ride the ring faster as the live speed rises; the camera turns slowly while a test runs.
-- **Teardown:** when the test ends, the detector comes apart into its three layers, labelled with your ping and jitter, download and upload. The last saved result is shown this way when the page opens.
-- **Cost:** drawn with the browser's 2D canvas, capped at 30 frames a second during a test and paused when the panel is off screen, so it doesn't compete with the measurement. *Animate* turns it off; *Reduce motion* turns it off by default. Screen readers get the result as text.
+- **The model, from the beam outwards:** silicon tracker, crystal electromagnetic calorimeter (teal), brass hadron calorimeter, the superconducting solenoid (silver) and the red iron return yoke with grey muon chambers, built as a 12-sided barrel of five wheels plus two endcaps. The wedge facing you is cut away, like an event display, so the collision point is visible. Blue dipole magnets mark the ring; the ring is the route to the test server and the collision point is your device.
+- **Download:** for each chunk really received (the note under the picture gives the size), two cyan bunches race in along the beam pipe from both sides and collide in the centre. Tracks curl in the magnetic field and light up where they stop: electrons in the crystal calorimeter, hadrons in the brass one.
+- **Upload:** an amber bunch leaves the centre along the pipe for each chunk really sent.
+- **Ping:** green probes run along the pipe and back over each measured round trip (slowed 20×), and the time flashes in the centre.
+- **Teardown:** when the test ends, the detector opens the way CMS is opened for maintenance — endcaps slide out along the beam and the barrel wheels part — and each part carries a result: ping and jitter, download, upload. The last saved result is shown this way when the page opens.
+- **Cost:** the detector is drawn once and reused, only the particles move; at most 30 frames a second during a test and paused off screen, so it doesn't compete with the measurement. *Animate* turns it off; *Reduce motion* turns it off by default. Screen readers get the result as text.
 
 ### 3. Result insights
 
@@ -484,7 +484,8 @@ CleanSpeed is not affiliated with Ookla, Speedtest®, Cloudflare, M-Lab, LibreSp
 
 | Commit | Change |
 |---|---|
-| *latest* | Packet collider: 3D view of ping, download and upload driven by the real byte counters, with a teardown of the result; tests and screenshots updated |
+| *latest* | Collider rebuilt on the real CMS/LHC structure: cutaway 12-sided detector (tracker, ECAL, HCAL, solenoid, iron yoke and muon chambers) on a ring of dipole magnets; colliding bunches; CMS-style opening teardown; detector drawn once and cached |
+| `f5985d7` | Packet collider: 3D view of ping, download and upload driven by the real byte counters, with a teardown of the result; tests and screenshots updated |
 | `f2c01ce` | Teardown and testing: WCAG 2.2 AA fixes (skip link, main landmark, ARIA roles, labelled charts, live status, gradient contrast, target sizes, forced colours); design fixes (no accent-word headings, sentence-case labels, mono only for numbers); Safari chart-height bug fixed; automated tests in Chromium, Firefox and WebKit on every push; [docs/TEARDOWN.md](docs/TEARDOWN.md) |
 | `3cd2379` | Typography: Instrument Serif titles with italic accents, Instrument Sans text, Geist Mono numbers and labels; fonts bundled (no Google Fonts request); canvases redraw when fonts load |
 | `c56eb8d` | Glass instrument redesign: frosted-glass panels over still light fields, engraved wells, 3D GO sphere, glass dial with bead, colour-coded 3D tool chips, raised segmented controls, one entrance on load and hover lift; chart fills the readout column on wide screens; layouts checked at 320–1440 px; Safari prefixes and solid fallback; glass app icon |

diff --git a/DESIGN.md b/DESIGN.md
@@ -70,7 +70,7 @@ CleanSpeed should feel like a precision instrument made of glass: depth, light a
 - Weighted for a product people use daily: restraint first, polish second.
 - Allowed: one entrance of the speed-test panel on load (550 ms rise), hover lift and press on controls (140 ms), state transitions (220 ms), the dial needle easing toward the live value, map packets (real data), charts drawing as data arrives.
 - Not allowed: pulsing or breathing indicators, looping rings, drifting backgrounds, parallax or pointer tilt, fade-in on scroll, staggered list entrances, bouncy springs.
-- The packet collider is the one ambient 3D moment: it moves only while a test runs (data-driven packets, slow camera turn), is capped at 30 fps, pauses off screen, ends in a single teardown animation, and respects *Animate* and *Reduce motion*.
+- The packet collider is the one ambient 3D moment, modelled on CMS/LHC with physical material colours (iron red, brass, crystal teal, magnet silver, dipole blue) while the data keeps its own colours (cyan, amber, green). It moves only while a test runs (data-driven bunches, fixed camera, detector cached), is capped at 30 fps, pauses off screen, ends in a single teardown animation, and respects *Animate* and *Reduce motion*.
 - Animation loops run only while something changes (the dial stops redrawing when the needle settles).
 - `prefers-reduced-motion: reduce`: transitions and animations are cut to 0.01 ms and the map animation starts switched off; every state is still visible.
 
